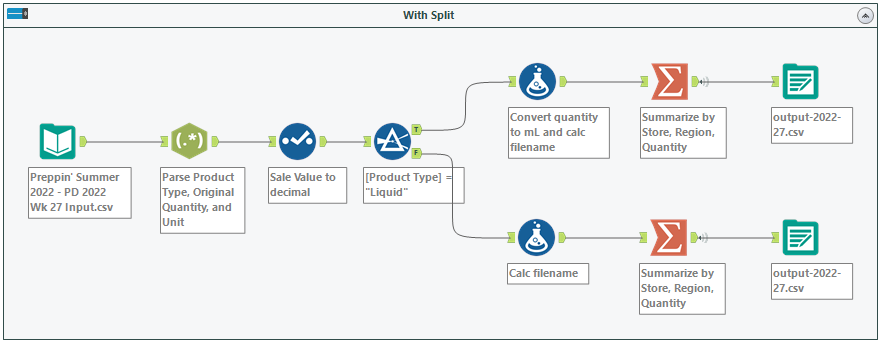
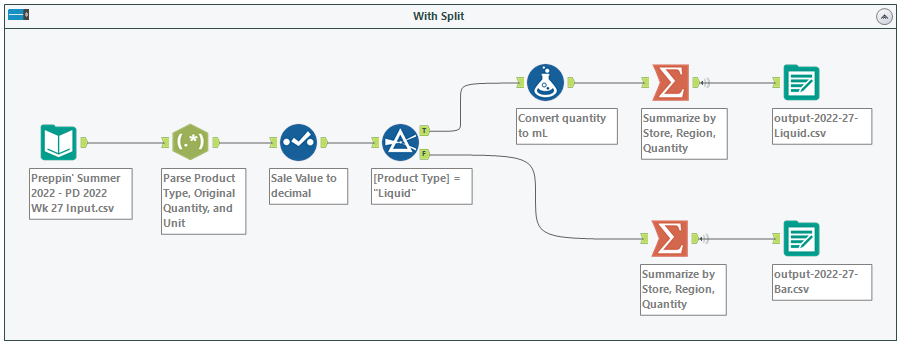
Added files for week 2022-27

diff --git a/2022/preppin-data-2022-27/preppin-data-2022-27.py b/2022/preppin-data-2022-27/preppin-data-2022-27.py
@@ -89,27 +89,18 @@ df_liquid = df.loc[df['Product Type']=='Liquid', df.columns]
 df_liquid['Quantity'] =  df['Quantity'].astype(int) * where(df['Unit'] == 'L', 1000, 1)
 
 
-# sum sales and count orders by store, region, and quantity
-
-df_out = ( df.groupby(['Product Type', 'Store Name', 'Region', 'Quantity'], as_index=False)
-             .agg(Sale_Value=('Sale Value', 'sum'),
-                  Present_in_N_orders=('Order ID', 'nunique'))
-             .rename(columns=lambda x: x.replace('_', ' '))             
-         )
-
-
 #---------------------------------------------------------------------------------------------------
 # output the file (split path)
 #---------------------------------------------------------------------------------------------------
 
-for df in [df_bar, df_liquid]: 
+for df_x in [df_bar, df_liquid]: 
     product_type = df['Product Type'].max()
 
-    ( df.groupby(['Store Name', 'Region', 'Quantity'], as_index=False)
-        .agg(Sale_Value=('Sale Value', 'sum'),
-             Present_in_N_orders=('Order ID', 'nunique'))
-        .rename(columns=lambda x: x.replace('_', ' '))             
-        .to_csv(f'.\\outputs\\output-2022-27-{product_type}.csv', index=False)
+    ( df_x.groupby(['Store Name', 'Region', 'Quantity'], as_index=False)
+          .agg(Sale_Value=('Sale Value', 'sum'),
+               Present_in_N_orders=('Order ID', 'nunique'))
+          .rename(columns=lambda x: x.replace('_', ' '))             
+          .to_csv(f'.\\outputs\\output-2022-27-{product_type}.csv', index=False)
     )
 
 
